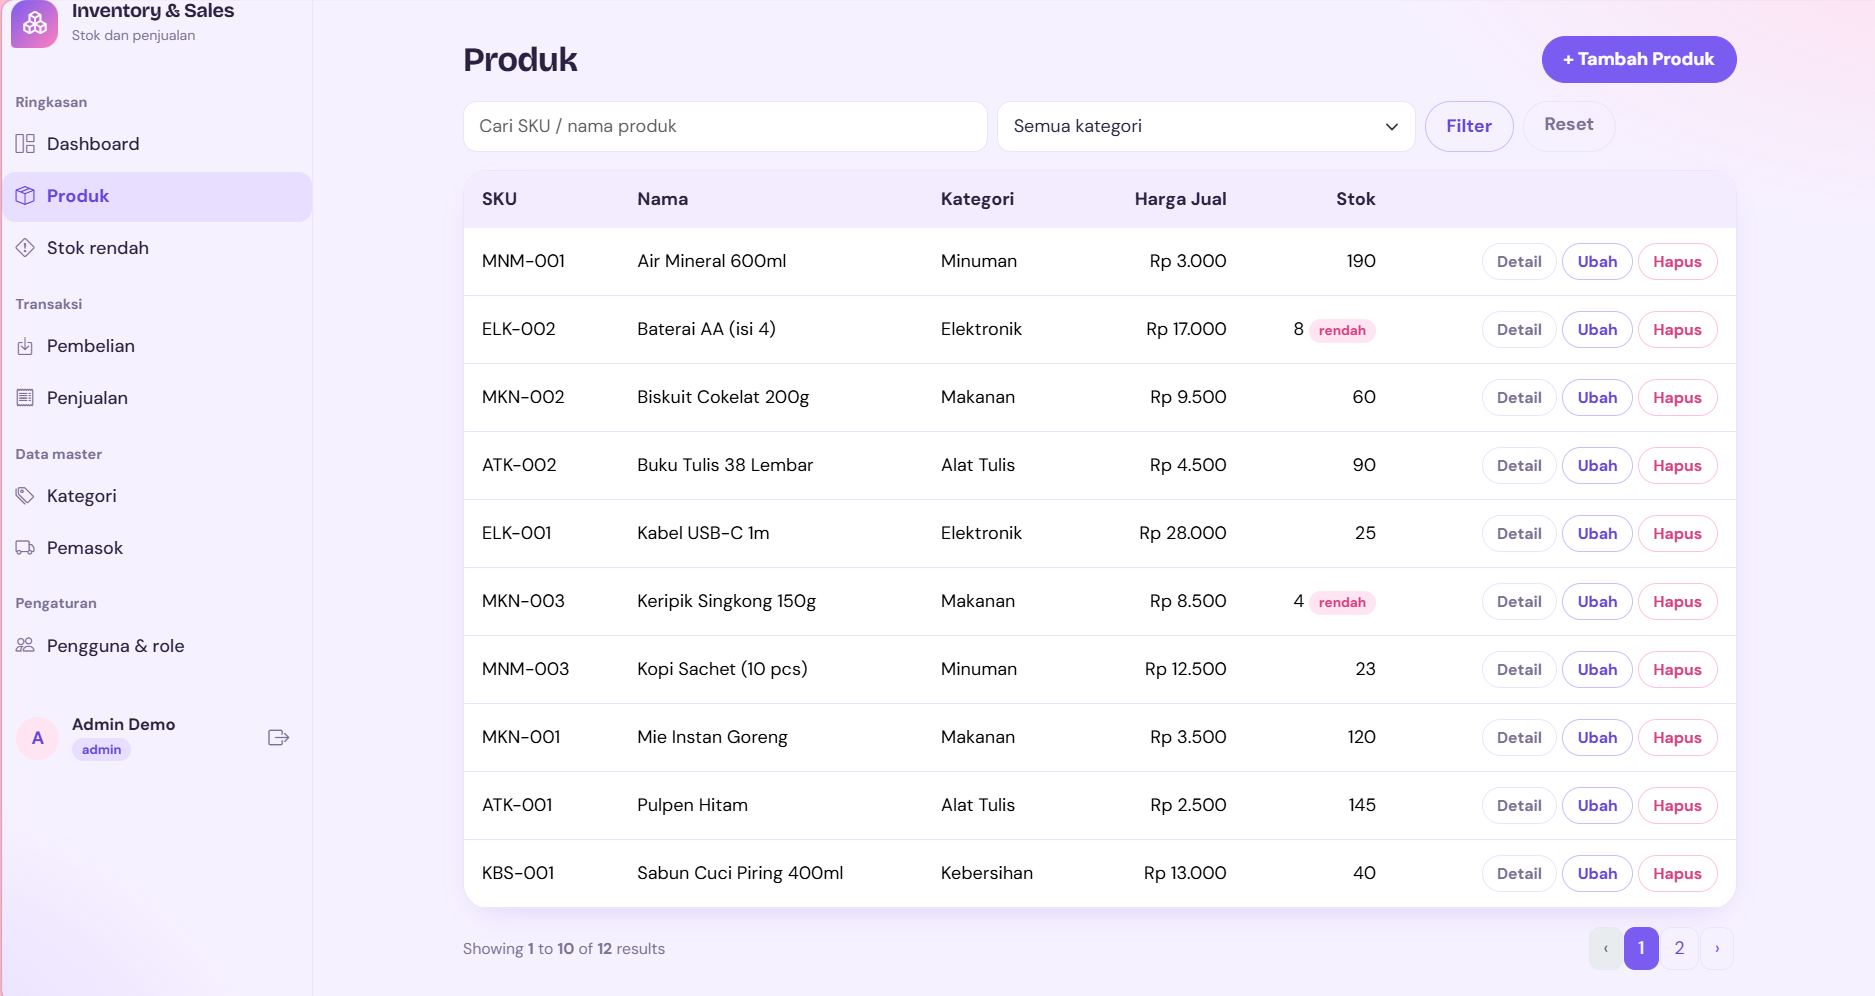
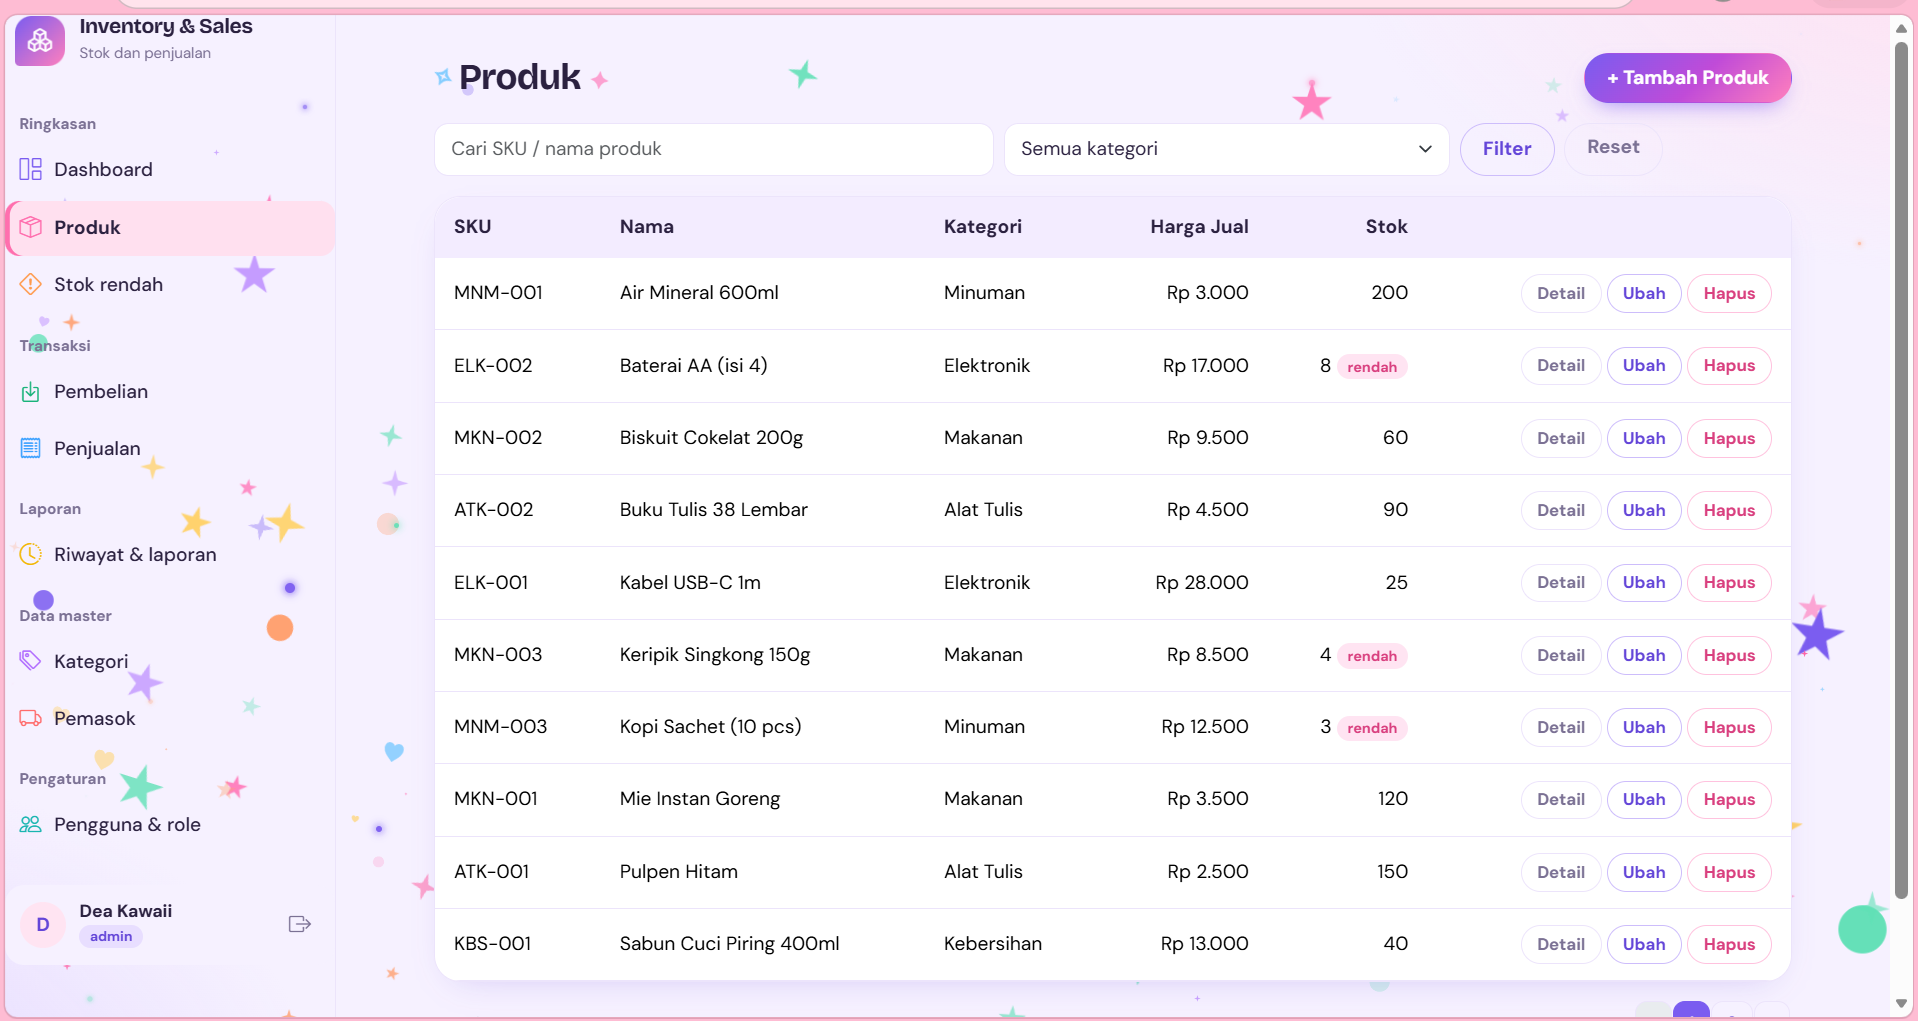
Perbarui screenshot dan rapikan README

diff --git a/README.md b/README.md
@@ -18,7 +18,7 @@ Dibuat untuk UTS Web Programming 2 — Integrated Laravel Project.
 
 ## 2. Requirements
 
-- PHP >= 8.2 (dengan ekstensi `pdo_mysql`, `mbstring`, `openssl`, `tokenizer`, `xml`, `ctype`, `json`)
+- PHP >= 8.2 (dengan ekstensi `pdo_mysql`, `pdo_sqlite`, `mbstring`, `openssl`, `tokenizer`, `xml`, `ctype`, `json`)
 - Composer 2
 - MySQL 8 / MariaDB 10.4+ (mis. lewat XAMPP)
 - Git
@@ -98,7 +98,7 @@ Akun berikut hanya data dummy untuk demo (bukan kredensial pribadi):
   - `lockForUpdate()` pada baris produk mencegah overselling pada transaksi bersamaan; produk diproses berurutan `product_id` untuk menghindari deadlock.
   - Transaksi selesai tidak diedit; hanya bisa **dibatalkan** (stok dipulihkan). Pembatalan pembelian ditolak jika stok hasil pembelian itu sudah terpakai.
   - Produk/kategori/pemasok/pengguna yang sudah dipakai tidak bisa dihapus (larangan hapus + foreign key `RESTRICT`).
-- **UI** — layout Blade reusable (Bootstrap 5 via CDN), navigasi, pesan sukses/error, input lama dipertahankan saat validasi gagal, form multi-item dinamis, responsive.
+- **UI** — layout Blade reusable (Bootstrap 5 via CDN) dengan tampilan ceria dan efek sparkle saat menu diklik, navigasi, pesan sukses/error, input lama dipertahankan saat validasi gagal, form multi-item dinamis, responsive.
 - **Keamanan dasar** — CSRF (`@csrf`), escaping output (`{{ }}`), password hashing, rate-limit login, mass-assignment protection (`$fillable`), query berparameter.
 
 ## 8. ERD
@@ -197,7 +197,7 @@ Route (routes/web.php) → Middleware (auth, can:) → Controller
 
 ## 10. Testing
 
-`php artisan test` menjalankan skenario minimum: guest ditolak, password salah ditolak, SKU duplikat & harga negatif ditolak, pembelian menambah stok, penjualan mengurangi stok, stok tidak cukup ditolak tanpa perubahan data, rollback saat satu item gagal, staff tidak bisa mengakses fungsi Admin, serta search/filter/pagination dan dashboard. Hasil terakhir: **39 test lulus (126 assertions)**. Screenshot `10-hasil-test` diambil sebelum fitur laporan ditambahkan, sehingga masih menampilkan 34 test.
+`php artisan test` menjalankan skenario minimum: guest ditolak, password salah ditolak, SKU duplikat & harga negatif ditolak, pembelian menambah stok, penjualan mengurangi stok, stok tidak cukup ditolak tanpa perubahan data, rollback saat satu item gagal, staff tidak bisa mengakses fungsi Admin, serta search/filter/pagination dan dashboard. Hasil terakhir: **39 test lulus (126 assertions)**.
 
 ## Screenshots
 
@@ -213,7 +213,7 @@ Bukti tampilan dan pengujian ada di folder [`docs/screenshots`](docs/screenshots
 | ![Detail pembelian](docs/screenshots/05-detail-pembelian.png) | ![Penjualan](docs/screenshots/06-penjualan.png) |
 | **Detail penjualan** | **Penjualan ditolak: stok tidak cukup** |
 | ![Detail penjualan](docs/screenshots/07-detail-penjualan.png) | ![Stok tidak cukup](docs/screenshots/08-stok-tidak-cukup.png) |
-| **Staff mengakses halaman Admin: 403** | **Hasil `php artisan test` (sebelum fitur laporan: 34 test)** |
+| **Staff mengakses halaman Admin: 403** | **Hasil `php artisan test` (39 test lulus)** |
 | ![403](docs/screenshots/09-akses-staff-403.png) | ![Hasil test](docs/screenshots/10-hasil-test.png) |
 | **Riwayat & laporan (Admin)** | |
 | ![Riwayat dan laporan](docs/screenshots/11-riwayat-laporan.png) | |
